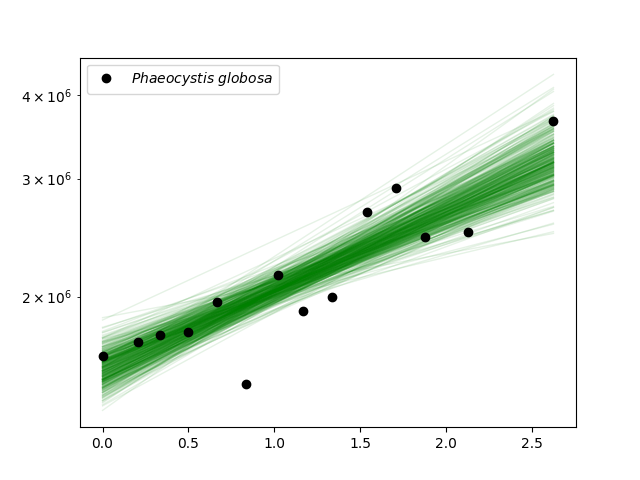
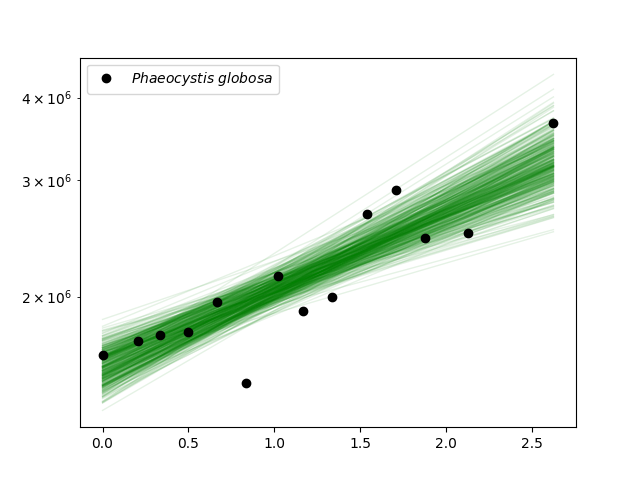
identifiability

diff --git a/case_study_1/python/src/identifiability_track.py b/case_study_1/python/src/identifiability_track.py
@@ -1,0 +1,78 @@
+import numpy as np
+import pandas as pd
+from scipy.integrate import odeint
+import pymc as pm
+from pytensor.compile.ops import as_op
+import pytensor.tensor as pt
+import arviz as az
+import matplotlib.pyplot as plt
+
+# Define the differential equation system
+def cells_ode(y, t, params):
+    mum,delta = params[0],params[1]
+    return [(mum-delta) * y[0]]
+
+# Build and return a PyMC model
+def build_pymc_model(time, ob, sigma_delta):
+
+    cell_model = pm.ode.DifferentialEquation(
+        func=cells_ode,
+        times=data['times'].values,
+        n_states=1,
+        n_theta=2,
+        t0=0
+    )
+
+    with pm.Model() as model:
+        # Priors
+        mum = pm.TruncatedNormal('mum', mu=0.5, sigma=0.3,lower = 0.1, upper=1.0)
+        delta = pm.TruncatedNormal('delta', mu=0.2, sigma=sigma_delta, lower=0.01, upper=1.0)
+        N0 = pm.Lognormal('N0', mu=np.log(obs[0]), sigma=0.1)
+        sigma = pm.HalfNormal("sigma", 1)
+
+        y_hat = cell_model(y0=[N0], theta=[mum,delta])
+        pm.Normal("Y_obs", mu=pm.math.log(y_hat[:, 0]), sigma=sigma, observed=np.log(obs))
+
+    return model
+
+
+# Run inference and return the trace (InferenceData)
+def run_inference(model, draws=2000, tune=2000, chains=4):
+    with model:
+        trace = pm.sample(draws=draws, tune=tune, chains=chains, return_inferencedata=True, target_accept=0.95)
+    return trace
+
+# ---------------------------
+# MAIN EXECUTION
+# ---------------------------
+
+# This block only runs if the script is executed directly (not when imported)
+if __name__ == "__main__":
+    # Load data
+    data = pd.read_csv("./../data/phaeocystis_control.csv")
+    time = data['times'].values
+    obs = data['cells'].values
+
+    
+    # Sensitivity analysis for different sigma_delta values
+    sigma_delta_values = [0.01, 0.05, 0.1, 0.2, 0.3]
+    mum_stddevs = []
+
+    for sd in sigma_delta_values:
+        print(f"\nRunning inference for sigma_delta = {sd}")
+        model = build_pymc_model(time, obs, sigma_delta=sd)
+        trace = run_inference(model, draws=500, tune=500, chains=2)  # Faster runs for test
+        std_mum = trace.posterior['mum'].std().values.flatten()[0]
+        mum_stddevs.append(std_mum)
+        print(f"Posterior std of mum: {std_mum:.4f}")
+
+    # Plot the results
+    plt.figure(figsize=(8, 5))
+    plt.plot(sigma_delta_values, mum_stddevs, marker='o', linestyle='none')
+    plt.xlabel("Prior Std Dev of $\delta$")
+    plt.ylabel("Posterior Std Dev of $\mu$")
+    plt.title("Effect of Prior Uncertainty in $\delta$ on Posterior of $\mu$")
+    #plt.grid(True)
+    plt.tight_layout()
+    plt.show()
+

diff --git a/case_study_1/python/src/main_text_fig2.py b/case_study_1/python/src/main_text_fig2.py
@@ -1,5 +1,5 @@
-import malthusian_plotting as gp
-import malthusian_death_plotting as dp
+import malthusian_normal_plotting as gp
+import death_normal_plotting as dp
 import matplotlib.pyplot as plt
 import arviz as az
 
